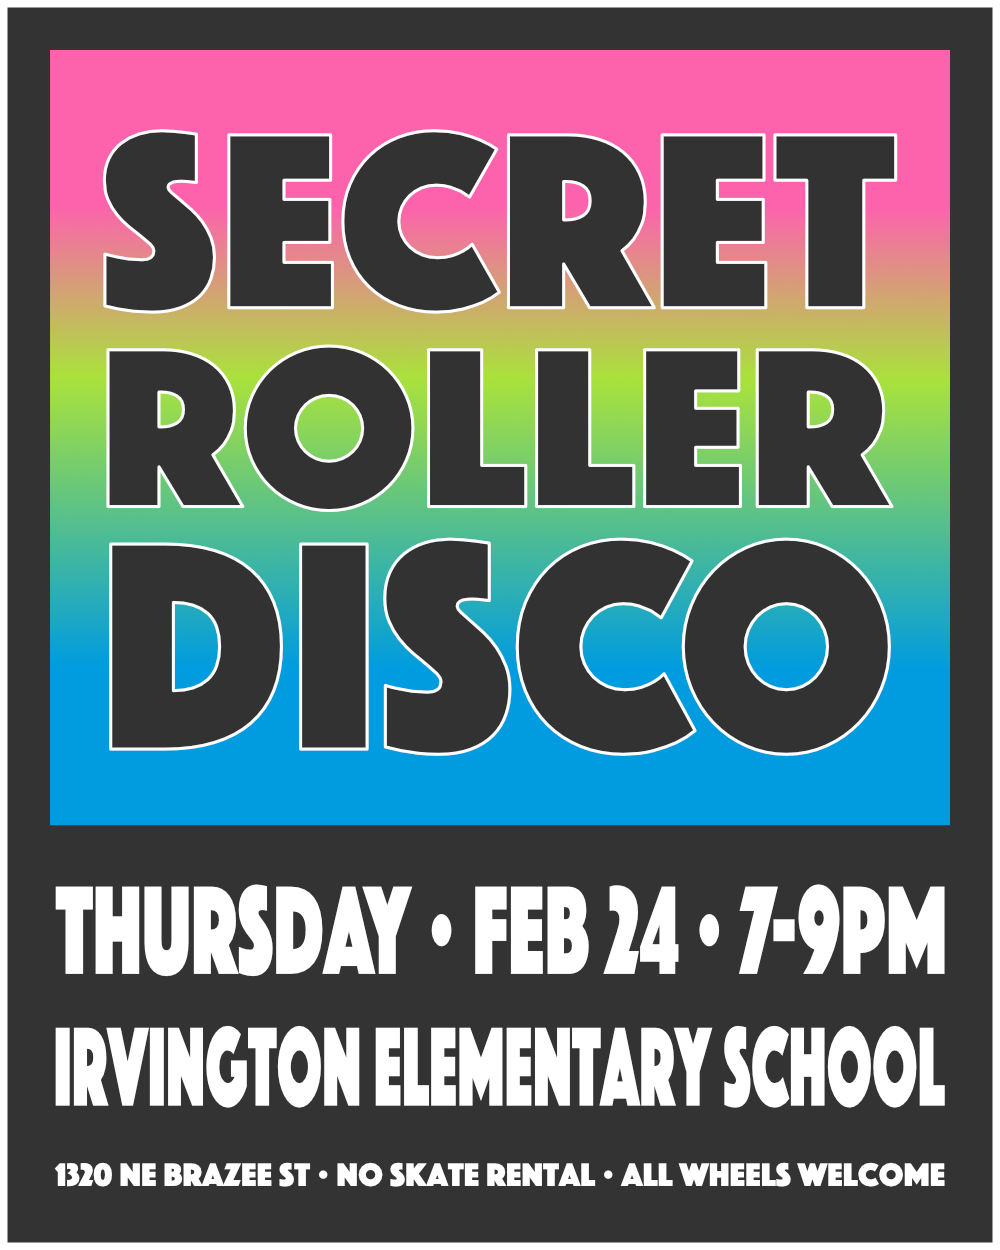
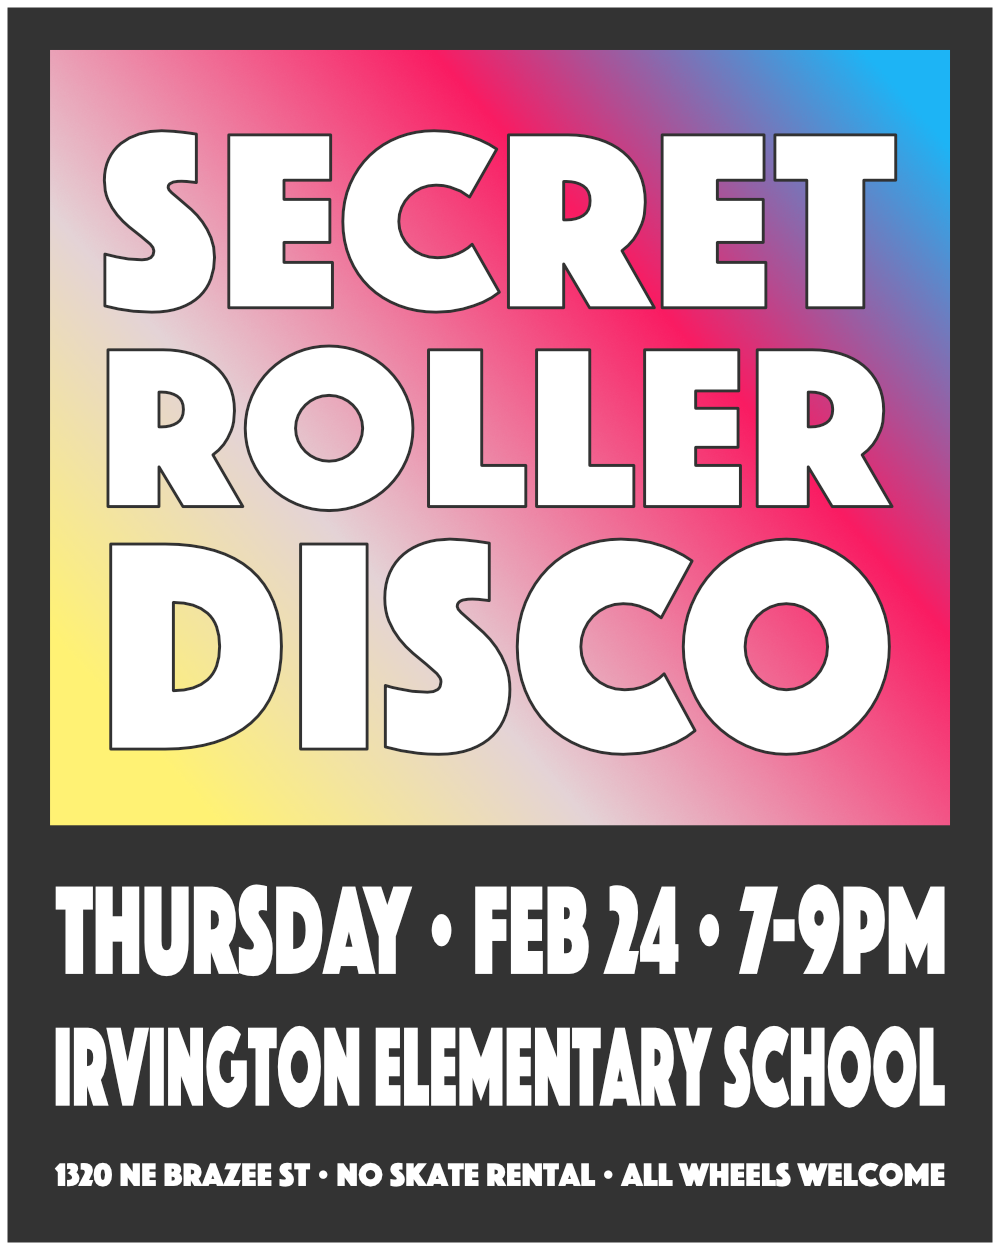
new flyer for march 3rd

diff --git a/index.html b/index.html
@@ -61,7 +61,7 @@
   <div class="container">
     <div class="row">
       <div class="col-md-6 col-md-offset-3">
-        <img src="flyer-2022-02-24.png?force" class="img-responsive" alt="Flyer for Secret Roller Disco. Thursday, February 24, 7 to 9pm. Irvington Elementary School. 1320 NE Brazee Street. No skate rental. All wheels welcome.">
+        <img src="flyer-2022-03-03.png" class="img-responsive" alt="Flyer for Secret Roller Disco. Thursday, March 3, 7 to 9pm. Faubion Elementary School. 2930 NE Dekum Street. No skate rental. All wheels welcome.">
         <p class="by-line">
           Portland’s least secret roller disco.<br />
           Thursday nights, rain or shine, 7 to 9.
